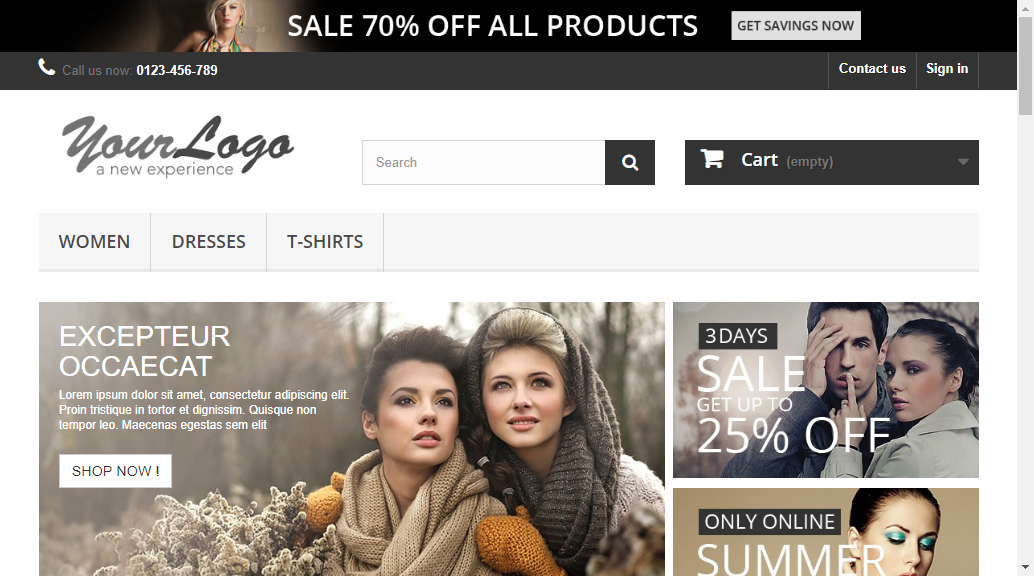
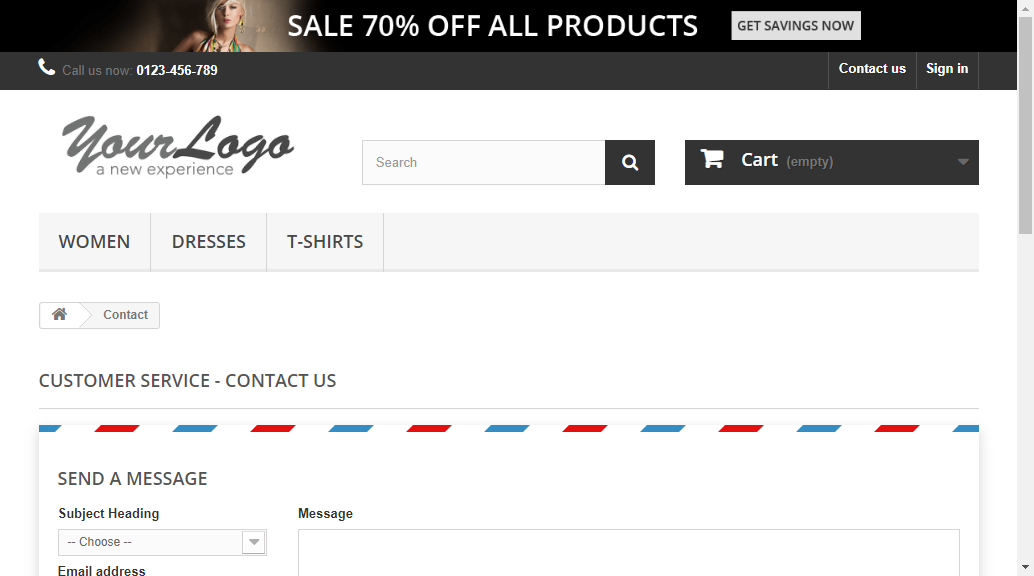
ajuste teste02

diff --git a/Results/log.html b/Results/log.html
@@ -1735,25 +1735,25 @@ function stopPropagation(event) {
 window.output = {};
 </script>
 <script type="text/javascript">
-window.output["suite"] = [1,2,3,0,[],[1,0,31315],[],[[4,0,1,0,[5],[1,244,31068],[[1,6,7,0,0,0,0,0,[1,245,5374],[[0,8,9,0,10,11,0,0,[1,246,5372],[],[[246,2,12]]]],[]],[0,13,7,0,0,0,0,0,[1,5620,23487],[[0,14,9,0,15,16,0,0,[1,5620,23481],[],[[5620,2,17]]],[0,18,9,0,19,20,0,0,[1,29101,6],[],[[29107,2,21]]]],[]],[0,22,7,0,0,0,0,0,[1,29108,766],[[0,23,9,0,24,25,0,0,[1,29108,766],[],[[29108,2,26]]]],[]],[0,27,7,0,0,0,0,0,[1,29887,1386],[[0,28,9,0,29,30,0,0,[1,29887,1380],[],[[31267,2,31]]],[0,18,9,0,19,32,0,0,[1,31268,5],[],[[31273,2,33]]]],[]],[0,34,7,0,0,0,0,0,[1,31274,37],[[0,28,9,0,29,35,0,0,[1,31274,20],[],[[31293,2,36]]],[0,28,9,0,29,37,0,0,[1,31294,17],[],[[31310,2,38]]]],[]]]]],[],[1,1,1,1]];
+window.output["suite"] = [1,2,3,0,[],[1,0,25699],[[4,5,6,0,[],[1,27,25666],[[7,8,9,0,[],[1,29,25630],[],[[10,0,1,0,[11],[1,233,25415],[[1,12,13,0,0,0,0,0,[1,234,5308],[[0,14,15,0,16,17,0,0,[1,235,5307],[],[[236,2,18]]]],[]],[0,19,13,0,0,0,0,0,[1,5544,14204],[[0,20,15,0,21,22,0,0,[1,5544,14194],[],[[5544,2,23]]],[0,24,15,0,25,26,0,0,[1,19738,10],[],[[19747,2,27]]]],[]],[0,28,13,0,0,0,0,0,[1,19749,624],[[0,29,15,0,30,31,0,0,[1,19750,622],[],[[19750,2,32]]]],[]],[0,33,13,0,0,0,0,0,[1,20376,2925],[[0,34,15,0,35,36,0,0,[1,20377,2903],[],[]],[0,37,15,0,38,39,0,0,[1,23280,16],[],[[23296,2,40]]],[0,24,15,0,25,41,0,0,[1,23296,5],[],[[23301,2,42]]]],[]],[0,43,13,0,0,0,0,0,[1,23301,166],[[0,37,15,0,38,44,0,0,[1,23302,16],[],[[23318,2,45]]],[0,37,15,0,38,46,0,0,[1,23318,15],[],[[23333,2,47]]],[0,48,15,0,49,50,0,0,[1,23333,8],[],[[23341,2,51]]],[0,48,15,0,49,52,0,0,[1,23341,10],[],[[23351,2,53]]],[0,48,15,0,49,54,0,0,[1,23351,10],[],[[23361,2,55]]],[0,37,15,0,38,56,0,0,[1,23361,20],[],[[23381,2,57]]],[0,48,15,0,49,58,0,0,[1,23382,11],[],[[23393,2,59]]],[0,37,15,0,38,60,0,0,[1,23394,14],[],[[23408,2,61]]],[0,48,15,0,49,62,0,0,[1,23408,11],[],[[23419,2,63]]],[0,37,15,0,38,64,0,0,[1,23419,14],[],[[23432,2,65]]],[0,48,15,0,49,66,0,0,[1,23433,10],[],[[23443,2,67]]],[0,37,15,0,38,68,0,0,[1,23443,14],[],[[23457,2,69]]],[0,48,15,0,49,70,0,0,[1,23457,10],[],[[23467,2,71]]]],[]],[2,72,13,0,0,0,0,0,[1,23467,2179],[[0,73,15,0,74,0,0,0,[1,23468,2178],[],[]]],[]]]]],[],[1,1,1,1]]],[],[],[1,1,1,1]]],[],[],[1,1,1,1]];
 </script>
 <script type="text/javascript">
 window.output["strings"] = [];
 </script>
 <script type="text/javascript">
-window.output["strings"] = window.output["strings"].concat(["*","*02 ValidarObjetosTelaContactUs","*C:\\treinamento\\Cases\\01__Requisito\\02_ValidarObjetosTelaContactUs.robot","*../Cases/01__Requisito/02_ValidarObjetosTelaContactUs.robot","*TC02: Validar os objetos do formulario Customer Service - Contact Us","*TC02","*Abrir navegador","*login","*Open Browser","*SeleniumLibrary","*<p>Opens a new browser instance to the optional <code>url\x3c/code>.\x3c/p>","*about:blank, ${BROWSER}","*Opening browser 'chrome' to base url 'about:blank'.","*Given que estou na tela home","*Go To","*<p>Navigates the current browser window to the provided <code>url\x3c/code>.\x3c/p>","*<a href=\"http://automationpractice.com\">http://automationpractice.com\x3c/a>","*Opening url '<a href=\"http://automationpractice.com\">http://automationpractice.com\x3c/a>'","*Title Should Be","*<p>Verifies that the current page title equals <code>title\x3c/code>.\x3c/p>","*My Store","*Page title is 'My Store'.","*When aciono o link Contact us","*Click Element","*<p>Click the element identified by <code>locator\x3c/code>.\x3c/p>","*xpath=//*[@id=\"contact-link\"]","*Clicking element 'xpath=//*[@id=\"contact-link\"]'.","*And que estou na tela Contact us","*Page Should Contain","*<p>Verifies that current page contains <code>text\x3c/code>.\x3c/p>","*Customer service - Contact us","*Current page contains text 'Customer service - Contact us'.","*Contact us - My Store","*Page title is 'Contact us - My Store'.","*Then valido os elementos do formulário Customer Service - Contact US","*send a message","*Current page contains text 'send a message'.","*Subject Heading","*Current page contains text 'Subject Heading'."]);
+window.output["strings"] = window.output["strings"].concat(["*","*Cases","*C:\\treinamento\\Cases","*../Cases","*Requisito","*C:\\treinamento\\Cases\\01__Requisito","*../Cases/01__Requisito","*02 ValidarObjetosTelaContactUs","*C:\\treinamento\\Cases\\01__Requisito\\02_ValidarObjetosTelaContactUs.robot","*../Cases/01__Requisito/02_ValidarObjetosTelaContactUs.robot","*TC02: Validar os objetos do formulario Customer Service - Contact Us","*TC02","*Abrir navegador","*login","*Open Browser","*SeleniumLibrary","*<p>Opens a new browser instance to the optional <code>url\x3c/code>.\x3c/p>","*about:blank, ${BROWSER}","*Opening browser 'chrome' to base url 'about:blank'.","*Given que estou na tela home","*Go To","*<p>Navigates the current browser window to the provided <code>url\x3c/code>.\x3c/p>","*<a href=\"http://automationpractice.com\">http://automationpractice.com\x3c/a>","*Opening url '<a href=\"http://automationpractice.com\">http://automationpractice.com\x3c/a>'","*Title Should Be","*<p>Verifies that the current page title equals <code>title\x3c/code>.\x3c/p>","*My Store","*Page title is 'My Store'.","*When aciono o link Contact us","*Click Element","*<p>Click the element identified by <code>locator\x3c/code>.\x3c/p>","*xpath=//*[@id=\"contact-link\"]","*Clicking element 'xpath=//*[@id=\"contact-link\"]'.","*And que estou na tela Contact us","*Wait Until Page Contains Element","*<p>Waits until the element <code>locator\x3c/code> appears on the current page.\x3c/p>","*css=#uniform-id_contact, 5s","*Page Should Contain","*<p>Verifies that current page contains <code>text\x3c/code>.\x3c/p>","*Customer service - Contact us","*Current page contains text 'Customer service - Contact us'.","*Contact us - My Store","*Page title is 'Contact us - My Store'.","*Then valido os elementos do formulário Customer Service - Contact US","*send a message","*Current page contains text 'send a message'.","*Subject Heading","*Current page contains text 'Subject Heading'.","*Page Should Contain Element","*<p>Verifies that element <code>locator\x3c/code> is found on the current page.\x3c/p>","*css=#uniform-id_contact","*Current page contains element 'css=#uniform-id_contact'.","*css=#center_column &gt; form &gt; fieldset &gt; div.clearfix &gt; div.col-xs-12.col-md-9 &gt; div &gt; label","*Current page contains element 'css=#center_column &gt; form &gt; fieldset &gt; div.clearfix &gt; div.col-xs-12.col-md-9 &gt; div &gt; label'.","*css=#message","*Current page contains element 'css=#message'.","*Email address","*Current page contains text 'Email address'.","*css=#email","*Current page contains element 'css=#email'.","*Order reference","*Current page contains text 'Order reference'.","*css=#id_order","*Current page contains element 'css=#id_order'.","*Attach File","*Current page contains text 'Attach File'.","*css=#fileUpload","*Current page contains element 'css=#fileUpload'.","*Send","*Current page contains text 'Send'.","*css=#center_column &gt; form &gt; fieldset &gt; div.submit","*Current page contains element 'css=#center_column &gt; form &gt; fieldset &gt; div.submit'.","*Fechar navegador","*Close Browser","*<p>Closes the current browser.\x3c/p>"]);
 </script>
 <script type="text/javascript">
-window.output["stats"] = [[{"elapsed":"00:00:31","fail":0,"label":"Critical Tests","pass":1},{"elapsed":"00:00:31","fail":0,"label":"All Tests","pass":1}],[{"elapsed":"00:00:31","fail":0,"label":"TC02","pass":1}],[{"elapsed":"00:00:31","fail":0,"id":"s1","label":"02 ValidarObjetosTelaContactUs","name":"02 ValidarObjetosTelaContactUs","pass":1}]];
+window.output["stats"] = [[{"elapsed":"00:00:25","fail":0,"label":"Critical Tests","pass":1},{"elapsed":"00:00:25","fail":0,"label":"All Tests","pass":1}],[{"elapsed":"00:00:25","fail":0,"label":"TC02","pass":1}],[{"elapsed":"00:00:26","fail":0,"id":"s1","label":"Cases","name":"Cases","pass":1},{"elapsed":"00:00:26","fail":0,"id":"s1-s1","label":"Cases.Requisito","name":"Requisito","pass":1},{"elapsed":"00:00:26","fail":0,"id":"s1-s1-s1","label":"Cases.Requisito.02 ValidarObjetosTelaContactUs","name":"02 ValidarObjetosTelaContactUs","pass":1}]];
 </script>
 <script type="text/javascript">
 window.output["errors"] = [];
 </script>
 <script type="text/javascript">
-window.output["baseMillis"] = 1587177940786;
+window.output["baseMillis"] = 1587223780752;
 </script>
 <script type="text/javascript">
-window.output["generated"] = 31331;
+window.output["generated"] = 25735;
 </script>
 <script type="text/javascript">
 window.settings = {"defaultLevel":"INFO","minLevel":"INFO","reportURL":"report.html","rpa":false,"splitLogBase":"log","title":""};

diff --git a/Results/report.html b/Results/report.html
@@ -1585,22 +1585,22 @@ storage = function () {
 window.output = {};
 </script>
 <script type="text/javascript">
-window.output["suite"] = [1,2,3,0,[],[1,0,31315],[],[[4,0,1,0,[5],[1,244,31068],[]]],[],[1,1,1,1]];
+window.output["suite"] = [1,2,3,0,[],[1,0,25699],[[4,5,6,0,[],[1,27,25666],[[7,8,9,0,[],[1,29,25630],[],[[10,0,1,0,[11],[1,233,25415],[]]],[],[1,1,1,1]]],[],[],[1,1,1,1]]],[],[],[1,1,1,1]];
 </script>
 <script type="text/javascript">
 window.output["strings"] = [];
 </script>
 <script type="text/javascript">
-window.output["strings"] = window.output["strings"].concat(["*","*02 ValidarObjetosTelaContactUs","*C:\\treinamento\\Cases\\01__Requisito\\02_ValidarObjetosTelaContactUs.robot","*../Cases/01__Requisito/02_ValidarObjetosTelaContactUs.robot","*TC02: Validar os objetos do formulario Customer Service - Contact Us","*TC02"]);
+window.output["strings"] = window.output["strings"].concat(["*","*Cases","*C:\\treinamento\\Cases","*../Cases","*Requisito","*C:\\treinamento\\Cases\\01__Requisito","*../Cases/01__Requisito","*02 ValidarObjetosTelaContactUs","*C:\\treinamento\\Cases\\01__Requisito\\02_ValidarObjetosTelaContactUs.robot","*../Cases/01__Requisito/02_ValidarObjetosTelaContactUs.robot","*TC02: Validar os objetos do formulario Customer Service - Contact Us","*TC02"]);
 </script>
 <script type="text/javascript">
-window.output["stats"] = [[{"elapsed":"00:00:31","fail":0,"label":"Critical Tests","pass":1},{"elapsed":"00:00:31","fail":0,"label":"All Tests","pass":1}],[{"elapsed":"00:00:31","fail":0,"label":"TC02","pass":1}],[{"elapsed":"00:00:31","fail":0,"id":"s1","label":"02 ValidarObjetosTelaContactUs","name":"02 ValidarObjetosTelaContactUs","pass":1}]];
+window.output["stats"] = [[{"elapsed":"00:00:25","fail":0,"label":"Critical Tests","pass":1},{"elapsed":"00:00:25","fail":0,"label":"All Tests","pass":1}],[{"elapsed":"00:00:25","fail":0,"label":"TC02","pass":1}],[{"elapsed":"00:00:26","fail":0,"id":"s1","label":"Cases","name":"Cases","pass":1},{"elapsed":"00:00:26","fail":0,"id":"s1-s1","label":"Cases.Requisito","name":"Requisito","pass":1},{"elapsed":"00:00:26","fail":0,"id":"s1-s1-s1","label":"Cases.Requisito.02 ValidarObjetosTelaContactUs","name":"02 ValidarObjetosTelaContactUs","pass":1}]];
 </script>
 <script type="text/javascript">
-window.output["baseMillis"] = 1587177940786;
+window.output["baseMillis"] = 1587223780752;
 </script>
 <script type="text/javascript">
-window.output["generated"] = 31331;
+window.output["generated"] = 25735;
 </script>
 <script type="text/javascript">
 window.settings = {"background":{"fail":"#f66","nonCriticalFail":"#9e9","pass":"#9e9"},"logURL":"log.html","rpa":false,"title":""};
